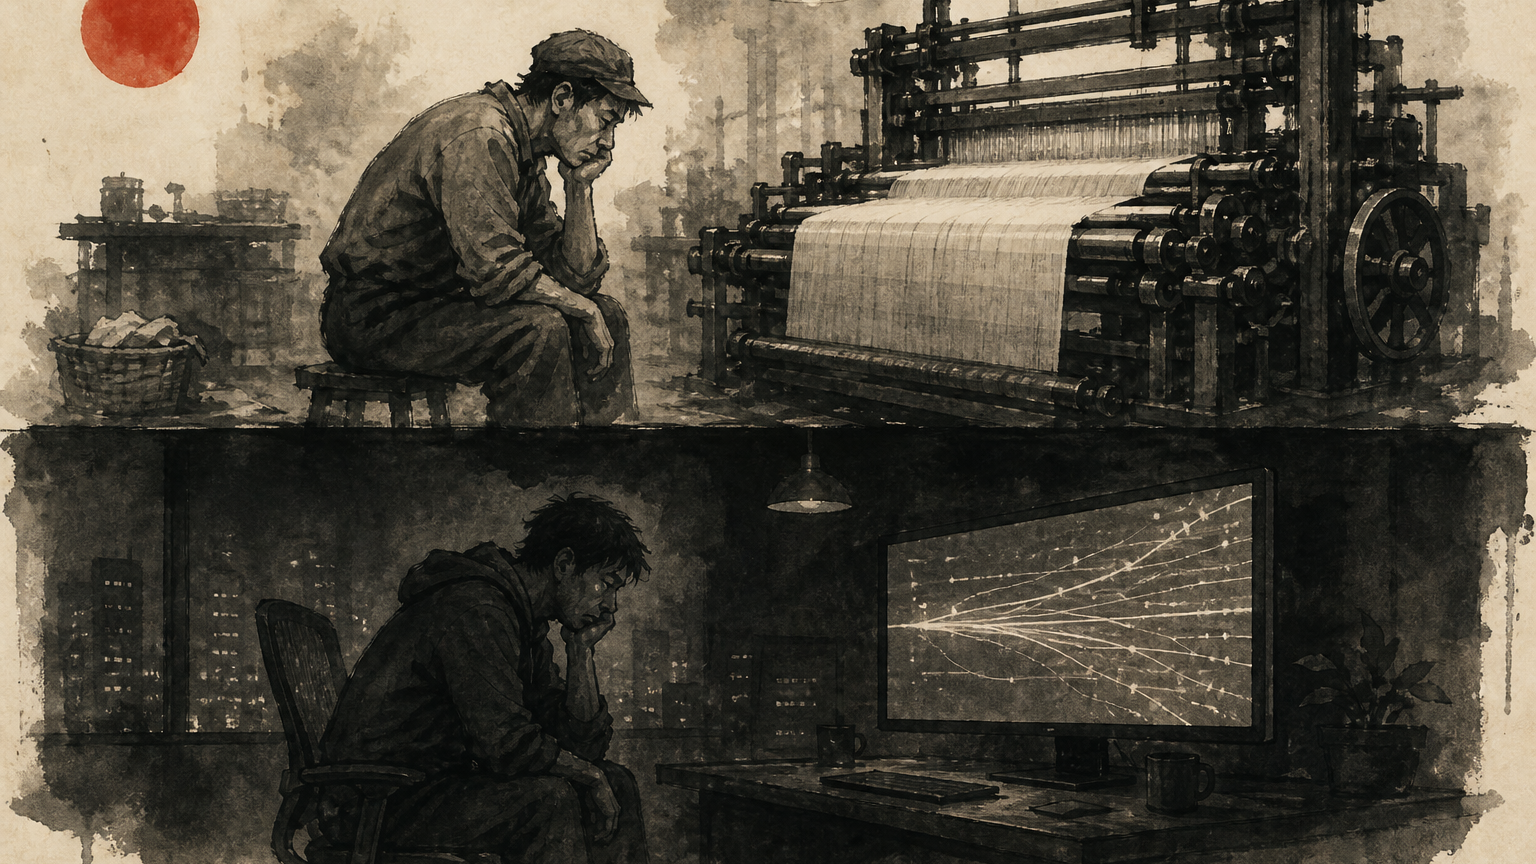
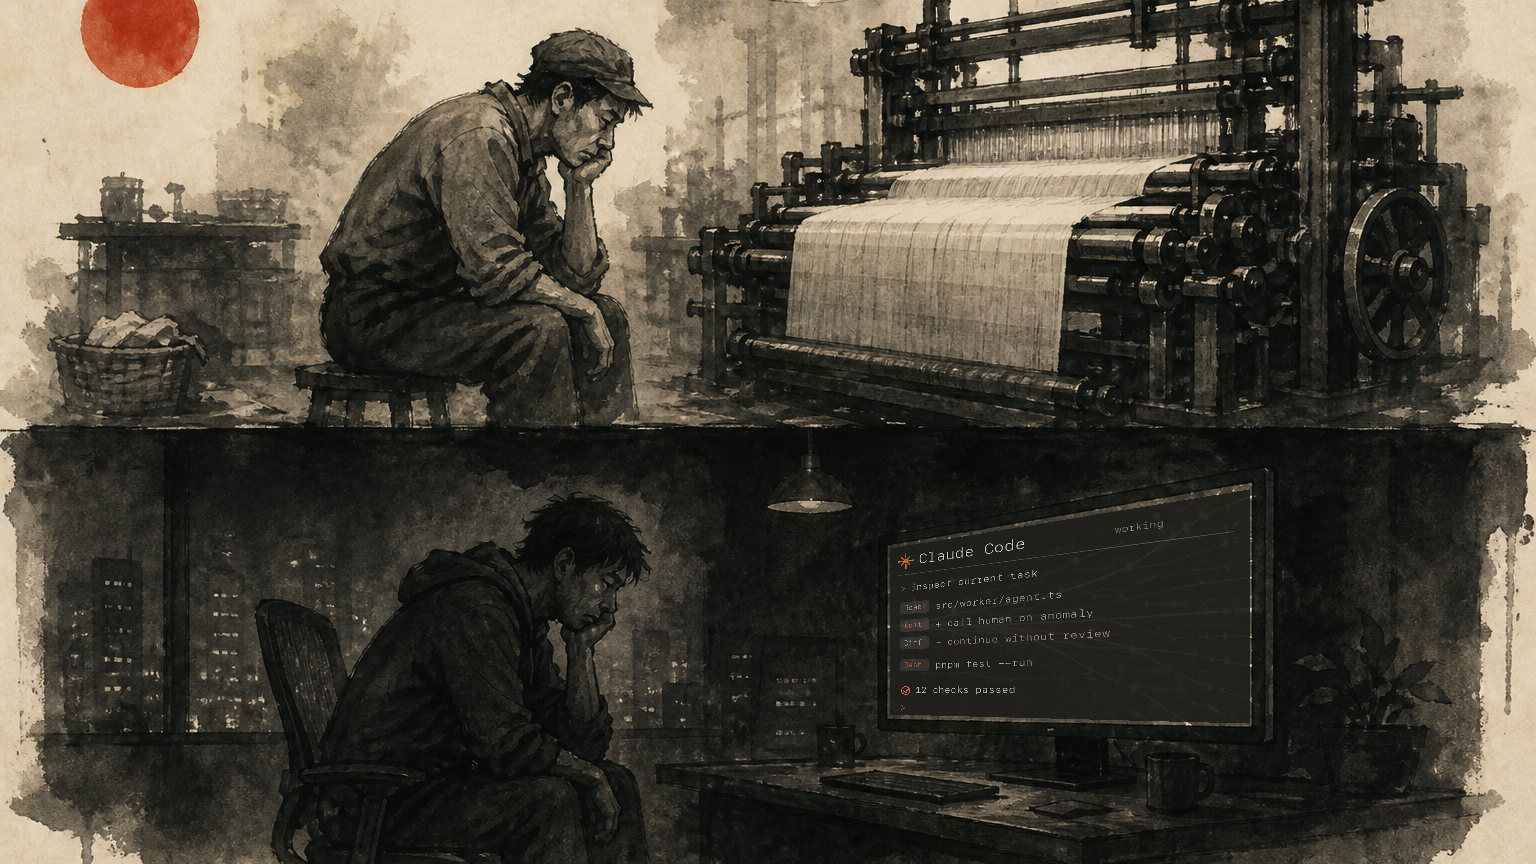
Update artwork list and slides for "Called by the stop" and "AI speeds whichever loop you feed" sections. Added new visuals and refined descriptions to enhance clarity and narrative flow. Generated G6 artwork and ensured monitor displays are recognizable as Claude Code. Targeted typecheck and deck b

Changed region(s): [[0.5625, 0.5625, 0.8125, 0.8438]]

diff --git a/slides/tps-and-ai/artwork-list.md b/slides/tps-and-ai/artwork-list.md
@@ -143,11 +143,12 @@ slide. Full-bleed backgrounds are 16:9; spot illustrations square or 4:3.
   seated and forced to keep watching a power loom that runs by itself;
   the scene reflects below as a dark mirrored shadow in which the same
   slumped figure becomes a modern developer sadly watching a computer
-  work by itself, the screen showing only abstract glowing lines, no
-  readable text; identical posture in both halves; 16:9.
+  work by itself, the monitor showing a recognizable Claude Code
+  terminal; identical posture in both halves; 16:9.
 
 ### G6. Called by the stop (mirrored pair, 2 of 2)
 
+- **Status:** done — `public/called-by-the-stop.png`
 - **Slide:** second follow-on after "The loom's closed stop"
 - **Placement:** second of two separate follow-on slides, after G5
 - **Why this mirror:** the closed stop summons human judgment exactly
@@ -158,10 +159,10 @@ slide. Full-bleed backgrounds are 16:9; spot illustrations square or 4:3.
   stopped itself, a small red flag raised where the thread broke, a
   glowing lightbulb above the worker's head; the scene reflects below
   as a dark mirrored shadow in which the same striding figure becomes
-  a developer walking eagerly toward a computer whose AI agent has
-  halted itself and raised the same small red flag on the screen, the
-  same lightbulb above the developer's head; vermilion accent on the
-  flags and lightbulbs; 16:9.
+  a developer walking eagerly toward a computer whose recognizable
+  Claude Code terminal has halted at an abnormality and is awaiting
+  human judgment, the same lightbulb above the developer's head;
+  vermilion accent on the flags and lightbulbs; 16:9.
 
 ### G7. Smart → dumb → gone
 
@@ -244,10 +245,14 @@ slide. Full-bleed backgrounds are 16:9; spot illustrations square or 4:3.
 - **"One lineage of inspiration":** simple flow diagram
   TPS → XP / Agile → LeSS → AI-augmented development. Mermaid or SVG;
   needs crisp text.
-- **"AI speeds whichever loop you feed":** the two-loop
-  causal map from Claim 22 (inventory-feeding loop vs
-  slice-shrinking loop). Labels matter, so SVG/mermaid, possibly with
-  Slidev click-reveals.
+- **"The engine of freedom and entrustment"** (after "The triad"):
+  Figure 1 of the Claim 22 companion CLD — loops R1+R2, six
+  variables. Done — embedded as mermaid; labels stay typeset text.
+  Optional polish: click-reveal walk of the loop.
+- **"AI speeds whichever loop you feed"** (follows the engine slide):
+  Figure 2 of the companion CLD — loop R5 with the AI injection,
+  four variables. Done — embedded as mermaid; reprises the early
+  statement slide's punchline once the engine has been walked.
 - **"The triad":** triangle of Jidoka / JIT / Respect for
   People with the frees / entrusts / grows verbs on the edges. SVG.
 - **"Five judgments stay human":** five icons (value,
@@ -257,9 +262,12 @@ slide. Full-bleed backgrounds are 16:9; spot illustrations square or 4:3.
 
 ## Slides intentionally without artwork
 
-The diagnostic question ("How do you know…"), the "The apparent
-tradeoff" and "JIT flow in LeSS" section dividers, the main-message
-quote, "Jidoka preserves knowledge", "Preferred tests: E2E or unit —
+The diagnostic question ("How do you know…"), the early statement
+slide ("AI can produce plausible software faster than a product group
+can absorb it" — its planned loop map moved to the dedicated "AI
+speeds whichever loop you feed" slide later in the deck), the "The
+apparent tradeoff" and "JIT flow in LeSS" section dividers, the
+main-message quote, "Jidoka preserves knowledge", "Preferred tests: E2E or unit —
 nothing in between", "Let the shared product pull collaboration",
 "Respect for People: grow people who can think", "Tensions and honest
 limits", and "Takeaways". The "Same gates" divider and "The gates do

diff --git a/slides/tps-and-ai/artwork-plan.md b/slides/tps-and-ai/artwork-plan.md
@@ -102,10 +102,13 @@ it as the first separate follow-on after **The loom's closed stop**.
 Targeted typecheck and deck build passed; rendered sequence inspection
 confirmed the Type G photograph keeps its own moment.
 
-### S8 — Behavior — planned
+### S8 — Behavior — done
 
-Generate G6 (called by the stop, 16:9) with G5 as reference; insert as
-the second half of the pair.
+Generated G6 as `public/called-by-the-stop.png` from G5 and added it as
+the second separate follow-on. A requested masked correction makes only
+the monitor displays in G5 and G6 recognizable as Claude Code; all
+pixels outside each screen mask remain unchanged. Targeted typecheck,
+deck build, and rendered sequence inspection passed.
 
 ### S9 — Behavior — planned
 

diff --git a/slides/tps-and-ai/slides.md b/slides/tps-and-ai/slides.md
@@ -301,6 +301,25 @@ Claim 6 — the same judgment-loaded trap in factory and software work.
 -->
 
 ---
+class: p-0
+---
+
+<img
+  src="/called-by-the-stop.png"
+  alt=""
+  class="absolute inset-0 h-full w-full object-cover"
+/>
+
+<div class="absolute left-1/2 top-4 z-10 -translate-x-1/2 rounded bg-white/85 px-4 py-2 text-center text-2xl font-semibold">
+  Called by the stop
+</div>
+
+<!--
+The closed stop calls human judgment only when an abnormality needs it.
+Claim 6 — the stop preserves freedom while creating an opportunity to learn.
+-->
+
+---
 
 # Smart → dumb → gone
 
